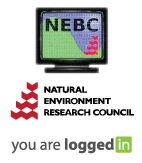
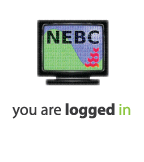
Addition of new templates with respective images for Harvard, NERC, and GSC.

diff --git a/web/src/main/webapp/stylesheet/global.css b/web/src/main/webapp/stylesheet/global.css
@@ -100,6 +100,18 @@ a, a:visited {
     background-position: top;
 }
 
+#gsc_logged_in_section {
+    width: 144px;
+    height: 162px;
+    position: absolute;
+    top: 0px;
+    left: 0px;
+    padding: 120px 18px 0px 16px;
+    background-image: url(../img/new_login/gsc_you_are_logged_in.png);
+    background-repeat: no-repeat;
+    background-position: top;
+}
+
 #info_logged_in {
     width: 600px;
     position: absolute;
